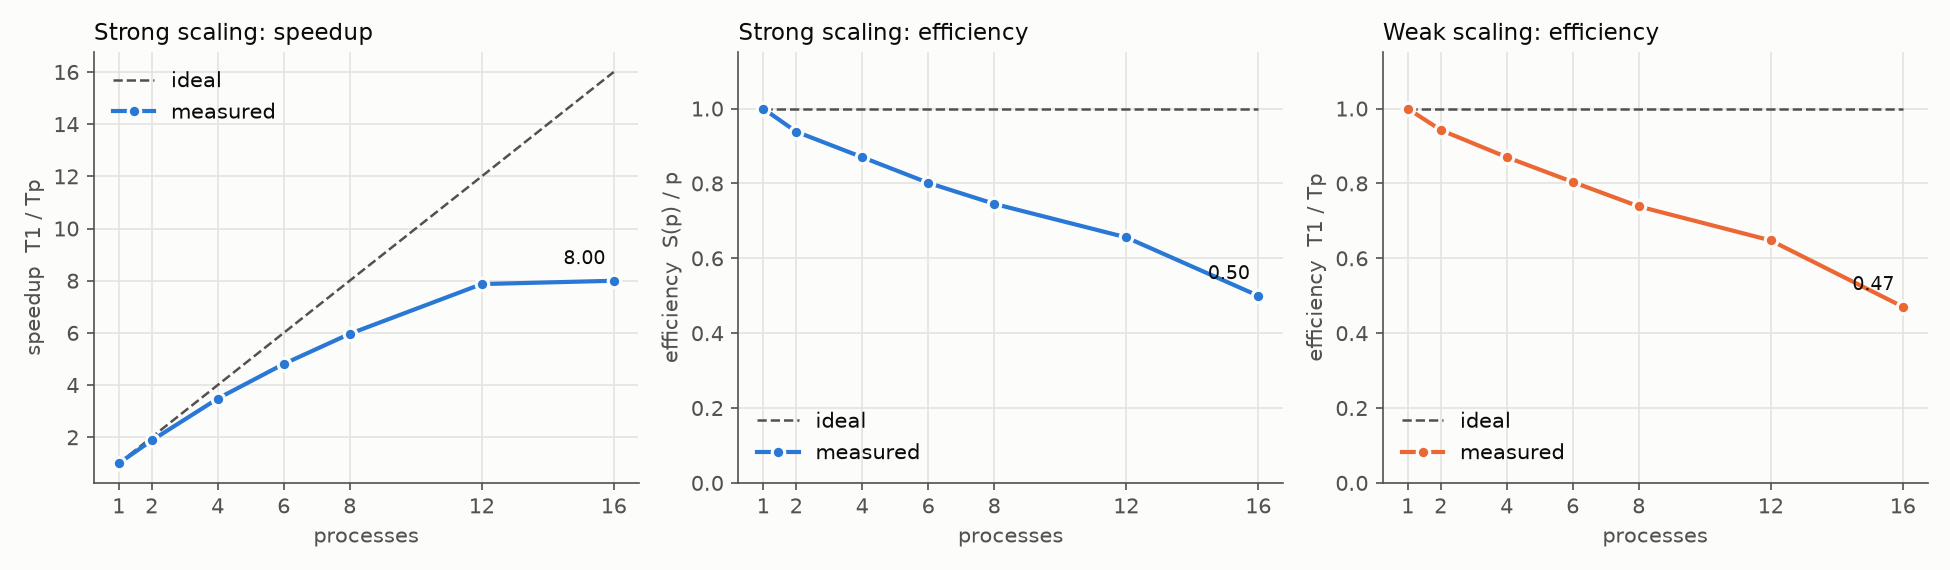
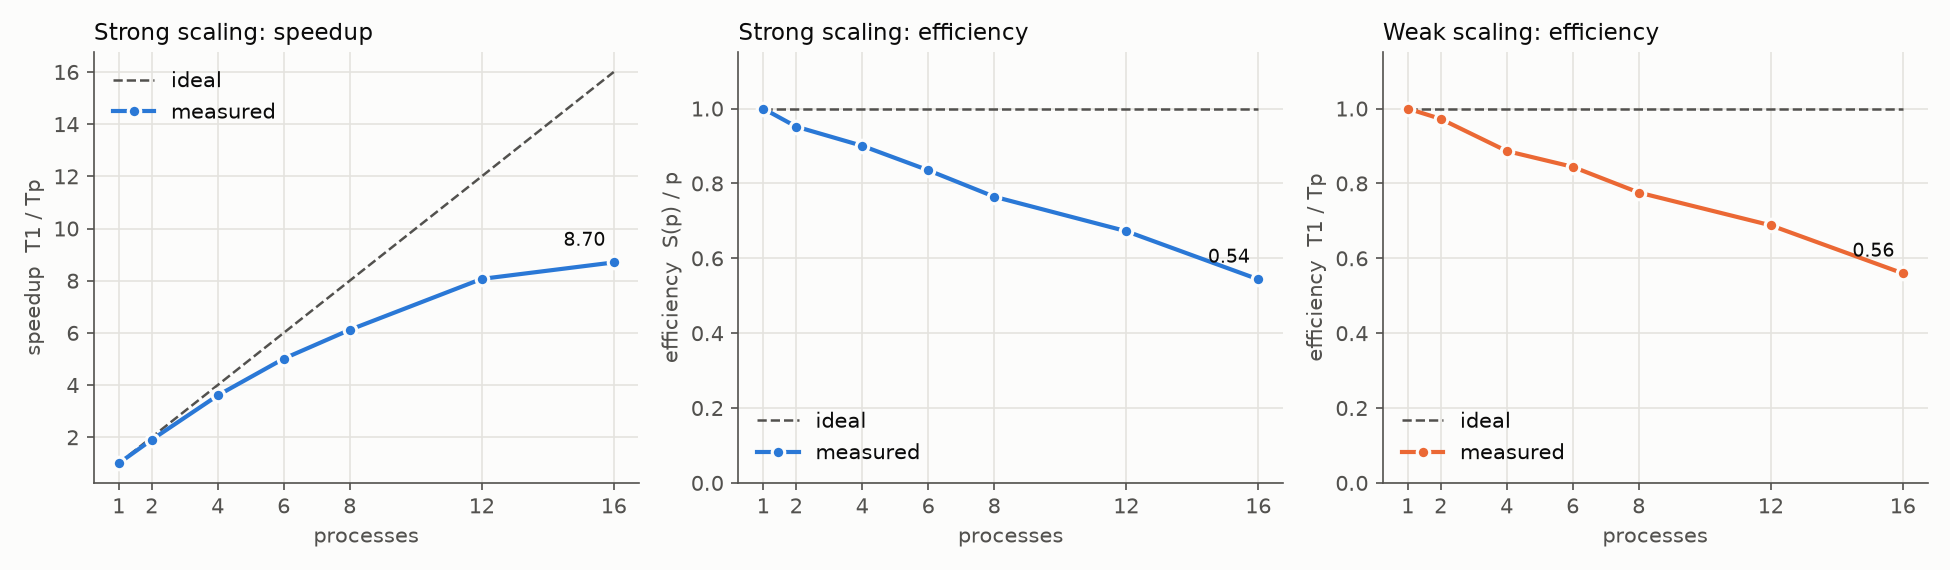
Benchmark OpenMP, MPI and JAX on real data; add comparison
- rerun strong/weak scaling for OpenMP, MPI and JAX on the real top-200
  portfolio (100k paths x 10 steps; serial C 11.4 s)
- OpenMP 8.3x / MPI 8.7x on 16 workers; MPI communication < 1 %
- JAX: fastest on one core (dense GEMM per step) but threefry normal
  generation limits it to ~4x; add --prng rbg (6.6x on 16 cores) and a
  jax_rbg benchmark; validate.py gains a C vs JAX-rbg check (18 checks)
- bench/compare.py: results/compare.png and results/summary.md
- README: real-data results, observations, actual timeline

diff --git a/bench/compare.py b/bench/compare.py
@@ -1,0 +1,119 @@
+"""Compare the OpenMP, MPI and JAX (threefry / rbg PRNG) scaling runs.
+
+Reads results/{omp,mpi,jax,jax_rbg}_{strong,weak}.csv and *_meta.json (written by
+bench/scaling.py) and writes
+  results/compare.png   speedup vs serial C, strong efficiency, weak efficiency
+  results/summary.md    Markdown table (pasted into README.md)
+"""
+
+from __future__ import annotations
+
+import csv
+import json
+from pathlib import Path
+
+ROOT = Path(__file__).resolve().parents[1]
+RESULTS = ROOT / "results"
+IMPLS = [("omp", "OpenMP (C)", "#2a78d6"), ("mpi", "MPI (C)", "#eb6834"),
+         ("jax", "JAX, threefry PRNG", "#1baf7a"), ("jax_rbg", "JAX, rbg PRNG", "#eda100")]
+INK, INK2, GRID, SURF = "#0b0b0b", "#52514e", "#e4e3df", "#fcfcfb"
+
+
+def load(impl):
+    def rows(kind):
+        with open(RESULTS / f"{impl}_{kind}.csv") as f:
+            return [{k: float(v) for k, v in r.items()} for r in csv.DictReader(f)]
+    return rows("strong"), rows("weak"), json.loads((RESULTS / f"{impl}_meta.json").read_text())
+
+
+def main():
+    data = {impl: load(impl) for impl, _, _ in IMPLS}
+    t_serial = statistics_median([m["serial_time_s"] for _, _, m in data.values()])
+    meta = data["omp"][2]
+
+    import matplotlib
+    matplotlib.use("Agg")
+    import matplotlib.pyplot as plt
+
+    plt.rcParams.update({"font.size": 10, "axes.edgecolor": INK2, "axes.labelcolor": INK2,
+                         "xtick.color": INK2, "ytick.color": INK2, "text.color": INK})
+    fig, axes = plt.subplots(1, 3, figsize=(14, 4.2), facecolor=SURF)
+    titles = ["Speedup vs serial C  (T_serial / T_p)", "Strong-scaling efficiency  T1 / (p T_p)",
+              "Weak-scaling efficiency  T1 / T_p"]
+    for ax, title in zip(axes, titles):
+        ax.set_facecolor(SURF)
+        ax.set_title(title, loc="left", fontsize=11, color=INK)
+        ax.grid(True, color=GRID, lw=0.8)
+        ax.spines[["top", "right"]].set_visible(False)
+        ax.set_xlabel("workers (threads / ranks / cores)")
+
+    p_all = [int(r["workers"]) for r in data["omp"][0]]
+    axes[0].plot(p_all, p_all, ls="--", lw=1.2, color=INK2, label="ideal (linear)")
+    for ax in axes[1:]:
+        ax.axhline(1.0, ls="--", lw=1.2, color=INK2, label="ideal")
+        ax.set_ylim(0, 1.15)
+    for ax in axes:
+        ax.axvline(8.5, color=GRID, lw=6, zorder=0)
+    axes[0].text(8.7, 0.6, "SMT region\n(>8 physical cores)", color=INK2, fontsize=8, va="bottom")
+
+    end_labels = []
+    for impl, label, color in IMPLS:
+        strong, weak, _ = data[impl]
+        p = [int(r["workers"]) for r in strong]
+        series = [
+            (axes[0], p, [t_serial / r["time_s"] for r in strong]),
+            (axes[1], p, [r["efficiency"] for r in strong]),
+            (axes[2], [int(r["workers"]) for r in weak], [r["efficiency"] for r in weak]),
+        ]
+        for ax, x, y in series:
+            ax.plot(x, y, lw=2, color=color, marker="o", ms=6, markeredgecolor=SURF,
+                    markeredgewidth=1.5, label=label)
+        end_labels.append((series[0][2][-1], series[0][1][-1]))
+    # End labels on the speedup panel, nudged apart so close values do not overlap.
+    placed = []
+    for y, x in sorted(end_labels):
+        y_txt = max(y, placed[-1] + 0.85) if placed else y
+        placed.append(y_txt)
+        axes[0].annotate(f"{y:.1f}x", (x, y), xytext=(x + 0.4, y_txt), va="center",
+                         color=INK, fontsize=9)
+    for ax in axes:
+        ax.set_xticks(p_all)
+        ax.set_xlim(0, max(p_all) + 1.8)
+    axes[0].legend(frameon=False, loc="upper left")
+    fig.suptitle(f"Monte Carlo VaR, top-200 KRX portfolio (real data): {int(meta['paths']):,} paths x "
+                 f"{int(meta['steps'])} steps, serial C = {t_serial:.1f} s  |  Ryzen 7 7840HS, 8C/16T",
+                 x=0.01, ha="left", fontsize=10, color=INK2)
+    fig.tight_layout()
+    fig.savefig(RESULTS / "compare.png", dpi=150, facecolor=SURF)
+
+    lines = [
+        f"Real data, top-200 portfolio, {int(meta['paths']):,} paths x {int(meta['steps'])} steps "
+        f"(strong) / {int(meta['weak_base']):,} paths per worker (weak); median of {int(meta['repeat'])} runs. "
+        f"Serial C baseline: {t_serial:.2f} s.",
+        "",
+        "| Implementation | 1 worker | 8 workers | 16 workers | Speedup vs serial C (8 / 16) "
+        "| Strong eff. (8 / 16) | Weak eff. (8 / 16) |",
+        "| --- | --- | --- | --- | --- | --- | --- |",
+    ]
+    for impl, label, _ in IMPLS:
+        strong, weak, _ = data[impl]
+        s = {int(r["workers"]): r for r in strong}
+        w = {int(r["workers"]): r for r in weak}
+        lines.append(
+            f"| {label} | {s[1]['time_s']:.2f} s | {s[8]['time_s']:.2f} s | {s[16]['time_s']:.2f} s "
+            f"| {t_serial / s[8]['time_s']:.1f}x / {t_serial / s[16]['time_s']:.1f}x "
+            f"| {s[8]['efficiency']:.2f} / {s[16]['efficiency']:.2f} "
+            f"| {w[8]['efficiency']:.2f} / {w[16]['efficiency']:.2f} |")
+    (RESULTS / "summary.md").write_text("\n".join(lines) + "\n")
+    print("\n".join(lines))
+    print("wrote results/compare.png, results/summary.md")
+
+
+def statistics_median(xs):
+    xs = sorted(xs)
+    m = len(xs) // 2
+    return xs[m] if len(xs) % 2 else 0.5 * (xs[m - 1] + xs[m])
+
+
+if __name__ == "__main__":
+    main()

diff --git a/bench/scaling.py b/bench/scaling.py
@@ -38,14 +38,15 @@ def run_once(impl: str, workers: int, paths: int, steps: int) -> dict:
     elif impl == "mpi":
         # 8 physical cores / 16 hardware threads: count hardware threads as slots
         cmd = ["mpirun", "-np", str(workers), "--use-hwthread-cpus", str(BUILD / "mc_mpi"), *args]
-    elif impl == "jax":
+    elif impl in ("jax", "jax_rbg"):
         # XLA sizes its thread pool from the CPU affinity mask: pin to `workers`
         # CPUs, one per physical core first (SMT siblings are 2k, 2k+1 here).
         cpus = sorted(os.sched_getaffinity(0))
         order = cpus[0::2] + cpus[1::2]
         cmd = ["taskset", "-c", ",".join(map(str, order[:workers])), sys.executable,
                str(ROOT / "sim/mc_jax.py"), "--paths", str(paths), "--steps", str(steps),
-               "--params", str(PARAMS.with_suffix(".h5"))]
+               "--params", str(PARAMS.with_suffix(".h5")),
+               "--prng", "rbg" if impl == "jax_rbg" else "threefry2x32"]
     elif impl == "serial":
         cmd = [str(BUILD / "mc_serial"), *args]
     else:
@@ -83,7 +84,7 @@ def plot(impl, strong, weak, out_png):
         ax.plot(x, y, lw=2, color=s1 if "Strong" in title else s2, marker="o", ms=6,
                 markeredgecolor=surf, markeredgewidth=1.5, label="measured")
         ax.set_title(title, loc="left", fontsize=11, color=ink)
-        ax.set_xlabel({"omp": "threads", "mpi": "processes", "jax": "cores"}[impl])
+        ax.set_xlabel({"omp": "threads", "mpi": "processes"}.get(impl, "cores"))
         ax.set_ylabel(ylabel)
         ax.set_xticks(x)
         ax.grid(True, color=grid, lw=0.8)
@@ -99,7 +100,7 @@ def plot(impl, strong, weak, out_png):
 
 def main():
     ap = argparse.ArgumentParser()
-    ap.add_argument("--impl", choices=["omp", "mpi", "jax"], default="omp")
+    ap.add_argument("--impl", choices=["omp", "mpi", "jax", "jax_rbg"], default="omp")
     ap.add_argument("--workers", type=int, nargs="+", default=[1, 2, 4, 6, 8, 12, 16])
     ap.add_argument("--paths", type=int, default=100_000, help="strong-scaling problem size")
     ap.add_argument("--weak-base", type=int, default=10_000, help="paths per worker (weak scaling)")

diff --git a/sim/mc_jax.py b/sim/mc_jax.py
@@ -10,7 +10,9 @@ Design
     function is compiled exactly once; compile time is reported separately.
   * Memory is bounded by --mem-mb (only a few chunk x n arrays are live).
   * RNG: chunk c uses key fold_in(PRNGKey(seed), c), step s uses fold_in(., s),
-    so results do not depend on the number of threads.
+    so results do not depend on the number of threads. With the default threefry
+    PRNG, normal generation is ~80 % of a step and scales only ~1.8x on 16 cores
+    (Amdahl); --prng rbg is 1.6x slower on one core but scales ~7x.
   * Parallelism: XLA's CPU thread pool. Restrict the cores with taskset
     (bench/scaling.py --impl jax does this).
 
@@ -38,11 +40,15 @@ def main():
     ap.add_argument("--seed", type=int, default=410)
     ap.add_argument("--dtype", choices=["float64", "float32"], default="float64")
     ap.add_argument("--mem-mb", type=float, default=64)
+    ap.add_argument("--prng", choices=["threefry2x32", "rbg"], default="threefry2x32",
+                    help="rbg: slower on one core but its normal generation parallelises "
+                         "far better on CPU (threefry limits scaling to ~2.3x)")
     a = ap.parse_args()
 
     import jax
     if a.dtype == "float64":
         jax.config.update("jax_enable_x64", True)
+    jax.config.update("jax_default_prng_impl", a.prng)
     import h5py
     import jax.numpy as jnp
     import numpy as np
@@ -86,7 +92,7 @@ def main():
     v95, c95 = var_cvar(0.95)
     v99, c99 = var_cvar(0.99)
     print(json.dumps({
-        "impl": f"jax-{a.dtype}", "workers": len(os.sched_getaffinity(0)), "mode": "var",
+        "impl": f"jax-{a.dtype}-{a.prng}", "workers": len(os.sched_getaffinity(0)), "mode": "var",
         "paths": a.paths, "steps": a.steps, "assets": n, "chunk": chunk, "elapsed": elapsed,
         "compile": t_compile, "value": a.value, "mean_loss": float(loss.mean()),
         "VaR95": v95, "CVaR95": c95, "VaR99": v99, "CVaR99": c99,

diff --git a/sim/validate.py b/sim/validate.py
@@ -6,7 +6,7 @@
 2. Single-asset VaR matches the closed-form lognormal quantile.
 3. OpenMP == serial and MPI == serial on the full portfolio: identical VaR/CVaR
    (same paths), mean loss equal up to summation order.
-4. C vs NumPy and C vs JAX (independent RNGs and implementations): VaR99 agrees within 3 %.
+4. C vs NumPy, C vs JAX and C vs JAX-rbg (independent RNGs and implementations): VaR99 agrees within 3 %.
 5. JAX on 1 core == JAX on all cores (up to GEMM summation order).
 """
 
@@ -106,6 +106,11 @@ def main():
     j1 = run(["taskset", "-c", "0", *jax_cmd])
     rel = max(abs(j1[k] / jx[k] - 1) for k in ("VaR95", "CVaR95", "VaR99", "CVaR99"))
     check("JAX(1 core) == JAX(all cores)", rel < 1e-9, f"max rel diff={rel:.1e}")
+
+    jr = run([*jax_cmd, "--prng", "rbg"])
+    rel = abs(jr["VaR99"] / c["VaR99"] - 1)
+    check("C vs JAX(rbg PRNG) VaR99", rel < 0.03,
+          f"C={c['VaR99']:,.0f} JAX-rbg={jr['VaR99']:,.0f} rel diff={rel:.4f}")
 
     print("all checks passed" if not failures else f"{failures} check(s) failed")
     return 1 if failures else 0

diff --git a/README.md b/README.md
@@ -2,15 +2,63 @@
 
 Final project for DCCS 410 Bigdata Distributed Processing System (Korea University).
 
-Estimates portfolio Value-at-Risk for a top-200 KRX portfolio and European option prices with correlated geometric Brownian motion, and measures the speedup from OpenMP, MPI, and JAX.
+Estimates the Value-at-Risk of a top-200 KRX stock portfolio (and European option prices) with
+correlated geometric Brownian motion fitted to every listed Korean stock, and measures the speedup
+from OpenMP, MPI and JAX.
 
 ## Pipeline
 
-1. `ingest/`: collect daily prices of every KRX-listed stock (~2,500 stocks x ~750 days, ~1.9 M rows) through the data.go.kr OpenAPI, one request per trading day, cached with a SHA-256 manifest.
-2. `spark/`: log returns and corporate-action cleaning for the whole market, per-stock statistics, and the 200 x 200 covariance of the top-200 stocks by market cap via a distributed self-join (~10 M pair rows).
-3. `sim/`: serial, OpenMP, MPI (C) and NumPy/JAX simulators; `validate.py` checks them.
-4. `bench/`: speedup, efficiency, and strong/weak scaling runs.
+1. `ingest/`: daily prices of every KRX-listed stock (KOSPI, KOSDAQ, KONEX) from the data.go.kr
+   OpenAPI (금융위원회_주식시세정보 V2), one request per trading day, gzip cache and SHA-256 manifest.
+   **2,646,624 rows, 3,176 stocks, 937 trading days (2023-01-02 to 2026-11-05).**
+2. `spark/`: log returns for the whole market, corporate-action cleaning (share count changed by
+   more than 10 %, or a move outside the KRX ±30 % daily limit), per-stock statistics, and the
+   200 x 200 covariance of the top-200 stocks by market cap via a distributed self-join on date
+   (17.4 M pair rows, 865 aligned days). About 22 s on `local[*]`.
+3. `sim/`: serial, OpenMP and MPI simulators in C, plus NumPy and JAX versions; `validate.py`
+   checks them.
+4. `bench/`: strong/weak scaling (`scaling.py`) and the cross-implementation comparison (`compare.py`).
 5. `results/`: benchmark tables and figures.
+
+## Results (real data)
+
+10-day VaR of 100 M KRW equally weighted over the top-200 stocks (1,000,000 paths x 10 steps,
+OpenMP 16 threads, 13.4 s; `results/var_top200_real.json`):
+
+| VaR95 | CVaR95 | VaR99 | CVaR99 |
+| --- | --- | --- | --- |
+| 6.50 M KRW (6.50 %) | 8.42 M KRW (8.42 %) | 9.64 M KRW (9.64 %) | 11.13 M KRW (11.13 %) |
+
+Scaling, Ryzen 7 7840HS (8 cores / 16 hardware threads), 7.5 GB RAM under WSL2:
+
+![comparison](results/compare.png)
+
+Real data, top-200 portfolio, 100,000 paths x 10 steps (strong) / 10,000 paths per worker (weak);
+median of 3 runs. Serial C baseline: 11.38 s.
+
+| Implementation | 1 worker | 8 workers | 16 workers | Speedup vs serial C (8 / 16) | Strong eff. (8 / 16) | Weak eff. (8 / 16) |
+| --- | --- | --- | --- | --- | --- | --- |
+| OpenMP (C) | 11.44 s | 1.88 s | 1.37 s | 6.1x / 8.3x | 0.76 / 0.52 | 0.78 / 0.58 |
+| MPI (C) | 11.39 s | 1.86 s | 1.31 s | 6.1x / 8.7x | 0.76 / 0.54 | 0.78 / 0.56 |
+| JAX, threefry PRNG | 6.43 s | 2.89 s | 2.78 s | 3.9x / 4.1x | 0.28 / 0.14 | 0.29 / 0.16 |
+| JAX, rbg PRNG | 11.25 s | 2.34 s | 1.71 s | 4.9x / 6.6x | 0.60 / 0.41 | 0.61 / 0.43 |
+
+Observations:
+
+- **OpenMP and MPI scale almost identically.** MPI communication (Bcast of the model, one Reduce,
+  Gatherv of the losses for the quantile) takes under 1 % of wall time, so the path loop dominates.
+- **Efficiency falls even in weak scaling**, where the paths are fully independent. This points to
+  the hardware rather than to synchronisation: beyond 8 workers two threads share one physical core
+  (SMT), and at 16 MPI ranks the slowest rank takes about 16 % longer than the fastest. The laptop's
+  boost clock probably also drops as more cores load up, but that was not measured.
+- **JAX is fastest on one core** (6.4 s, 1.8x the serial C code), because it turns the per-path
+  triangular mat-vec into one dense (chunk x 200) @ (200 x 200) GEMM per step.
+- **JAX with the default threefry PRNG stops at about 4x.** Profiling one step shows that normal
+  generation takes about 80 % of the time and speeds up only 1.8x on 16 cores (the GEMM speeds up
+  5.6x): an Amdahl's-law limit. Switching to the `rbg` PRNG makes one core 1.6x slower, but random
+  generation scales about 7x, so 16 cores reach 6.6x.
+
+Per-implementation plots: `results/{omp,mpi,jax,jax_rbg}_scaling.png`.
 
 ## Setup
 
@@ -18,39 +66,42 @@ Estimates portfolio Value-at-Risk for a top-200 KRX portfolio and European optio
 python -m venv .venv && source .venv/bin/activate
 pip install -r requirements.txt
 cp .env.example .env   # then add your data.go.kr API key (금융위원회_주식시세정보)
+sudo apt install libopenmpi-dev openmpi-bin   # MPI toolchain for build/mc_mpi
 ```
-
-MPI needs a system toolchain: `sudo apt install libopenmpi-dev openmpi-bin`, then `pip install mpi4py`.
 
 ## Running
 
 ```bash
-python ingest/fetch_prices.py          # real data (needs key); add --synthetic for offline GBM data
-python spark/stats.py                  # returns, mu, sigma, covariance -> data/stats/
+python ingest/fetch_prices.py          # real data (needs key); --synthetic for an offline factor-model market
+python spark/stats.py                  # returns, mu, sigma, top-200 covariance -> data/stats/
 make -C sim                            # build/mc_serial, build/mc_omp, build/mc_mpi
-python sim/validate.py                 # Black-Scholes, closed-form VaR, OpenMP == serial, C vs NumPy
-python bench/scaling.py --impl omp     # strong/weak scaling -> results/
-python bench/scaling.py --impl mpi
+python sim/validate.py                 # 18 correctness checks
+python bench/scaling.py --impl omp     # also: mpi, jax, jax_rbg  -> results/<impl>_*
+python bench/compare.py                # results/compare.png, results/summary.md
 ```
 
-Simulator CLI (all implementations share it):
+Simulator CLI (the C implementations share it; `sim/mc_jax.py` takes the same VaR options):
 
 ```bash
-./build/mc_omp --mode var --paths 4000000 --steps 10 --T 0.0397 --value 1e8   # 10-day VaR/CVaR
+./build/mc_omp --mode var --paths 1000000 --steps 10 --T 0.0397 --value 1e8   # 10-day VaR/CVaR
+mpirun -np 8 ./build/mc_mpi --paths 1000000
 ./build/mc_serial --mode option --paths 1000000 --steps 52 --T 1 --r 0.03 --K 1.0
+python sim/mc_jax.py --paths 1000000 --prng rbg
 ```
 
-Path `p` always draws from RNG stream `(seed, p)`, so serial, OpenMP and MPI runs simulate
-exactly the same paths and parallel VaR results are bit-identical to serial.
+Path `p` always draws from RNG stream `(seed, p)`, so serial, OpenMP and MPI runs simulate exactly
+the same paths, and parallel VaR results are bit-identical to serial. `validate.py` checks this along
+with Black–Scholes prices, a closed-form single-asset VaR, and agreement with the independent NumPy
+and JAX implementations.
 
-## Status
+## Timeline
 
 | Date | Milestone | State |
 | --- | --- | --- |
-| Nov 7 | OpenAPI ingestion, Spark statistics, serial simulator validated against Black–Scholes | done (real-data run pending API key) |
-| Nov 8 | Scope extended to the full KRX universe (top-200 portfolio) | done |
-| Nov 14 | OpenMP version and benchmarks | done: 6.1x on 8 threads, 8.8x on 16 (Ryzen 7 7840HS, 8C/16T) |
-| Nov 21 | MPI version and benchmarks | done: 8.0x on 16 ranks, communication < 1 % of wall time |
-| Dec 5 | JAX version, final benchmarks, slides | |
+| Nov 4 | Project skeleton | done |
+| Nov 7 (planned) / Nov 8 | Ingestion, Spark statistics, serial simulator validated against Black–Scholes | done |
+| Nov 8 | Scope extended from 8 stocks to the full KRX universe (top-200 portfolio); OpenMP and MPI versions | done |
+| Nov 8 | JAX version | done |
+| Nov 9 | Real-data run (API moved to a V2 endpoint); benchmarks of all implementations on real data | done |
 | Dec 8 | Presentation | |
 | Dec 16 | Final report | |

diff --git a/results/summary.md b/results/summary.md
@@ -1,0 +1,8 @@
+Real data, top-200 portfolio, 100,000 paths x 10 steps (strong) / 10,000 paths per worker (weak); median of 3 runs. Serial C baseline: 11.38 s.
+
+| Implementation | 1 worker | 8 workers | 16 workers | Speedup vs serial C (8 / 16) | Strong eff. (8 / 16) | Weak eff. (8 / 16) |
+| --- | --- | --- | --- | --- | --- | --- |
+| OpenMP (C) | 11.44 s | 1.88 s | 1.37 s | 6.1x / 8.3x | 0.76 / 0.52 | 0.78 / 0.58 |
+| MPI (C) | 11.39 s | 1.86 s | 1.31 s | 6.1x / 8.7x | 0.76 / 0.54 | 0.78 / 0.56 |
+| JAX, threefry PRNG | 6.43 s | 2.89 s | 2.78 s | 3.9x / 4.1x | 0.28 / 0.14 | 0.29 / 0.16 |
+| JAX, rbg PRNG | 11.25 s | 2.34 s | 1.71 s | 4.9x / 6.6x | 0.60 / 0.41 | 0.61 / 0.43 |
